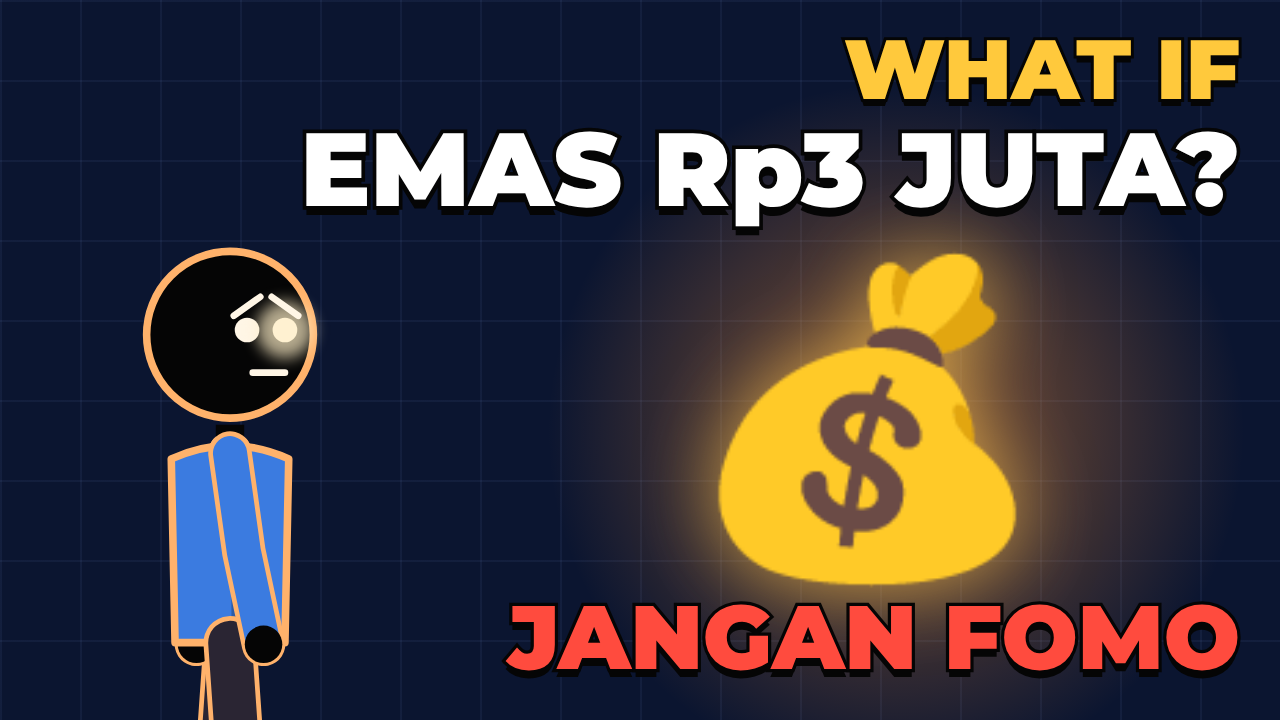
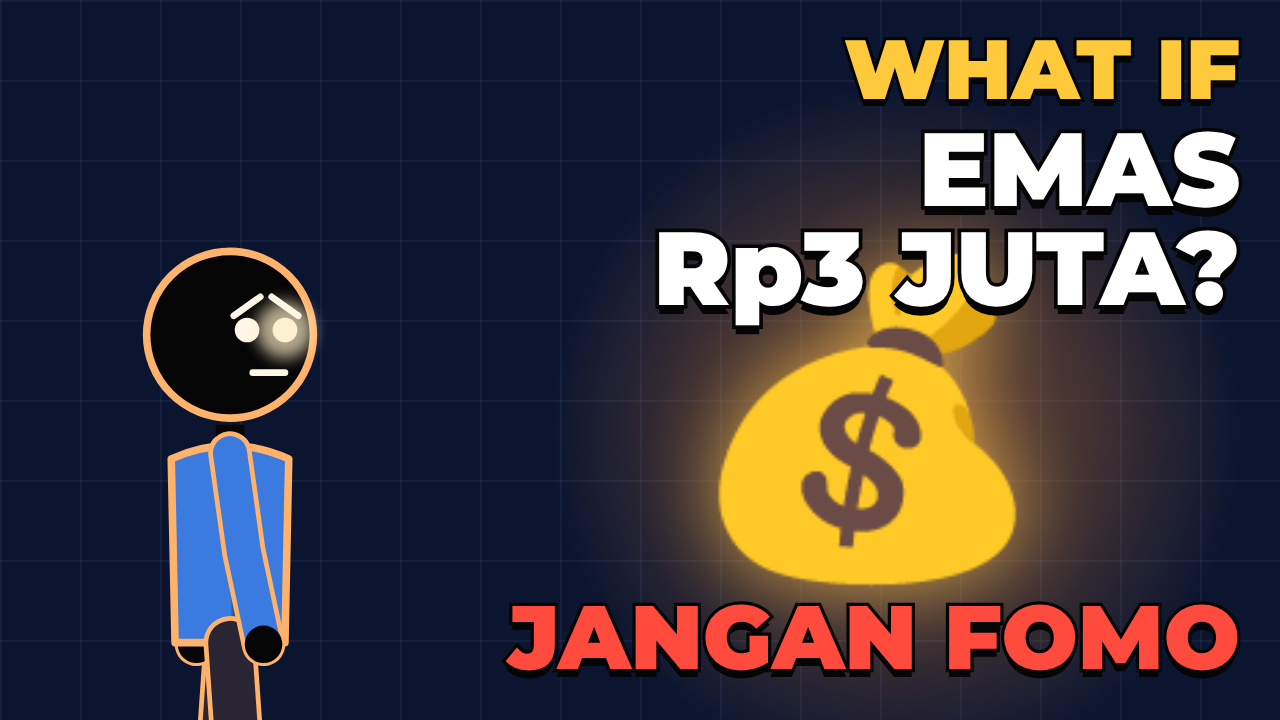
Batch outputs: thumbnails and SEO for ARB 7%, emas Rp3 juta, MSCI
Claude-Session: https://claude.ai/code/session_019wh8FBkZywDsjYxjdhMVwN

Changed region(s): [[0.2188, 0.1528, 0.9688, 0.4889]]

diff --git a/video-asing-kabur/youtube/msci-standalone.md b/video-asing-kabur/youtube/msci-standalone.md
@@ -1,0 +1,55 @@
+# YouTube: What If MSCI Benar-benar Turunkan Status Pasar Saham Indonesia?
+
+## Opsi 1: thumbnail `msci-standalone-thumb-1.png`
+**Judul:** What If MSCI Benar-benar Turunkan Status Pasar Saham Indonesia?
+
+## Opsi 2: thumbnail `msci-standalone-thumb-2.png`
+**Judul:** Indonesia Jadi Standalone Market MSCI: Kiamat atau Titik Balik IHSG?
+
+## Opsi 3: thumbnail `msci-standalone-thumb-3.png`
+**Judul:** MSCI Ancam Turunkan Indonesia: Apa yang Terjadi ke Saham dan Uangmu?
+
+---
+
+## Deskripsi
+
+Pada 15 Oktober 2026, MSCI membuka konsultasi untuk menurunkan status pasar saham Indonesia dari emerging market menjadi standalone market. Keesokan harinya, IHSG ambruk 11,57% dan asing mencatat jual bersih sekitar Rp3,34 triliun. Ini baru usulan, tapi bagaimana kalau benar-benar disetujui?
+
+Kita bahas apa itu MSCI dan kelas-kelas pasar, kenapa dana pasif dan ETF "wajib" menjual, apa alasan MSCI khawatir (investability dan transparansi kepemilikan), contoh Argentina dan Pakistan, lalu skenario hari demi hari: penjualan paksa, pasar yang sepi, valuasi yang tertinggal, sampai sisi cerita yang jarang dibahas, yaitu reformasi dan kekuatan investor lokal.
+
+⏱ Timestamp
+0:00 Surat untuk anggota klub
+0:20 Fakta: konsultasi MSCI & IHSG -11,57%
+1:09 Apa itu MSCI & kelas pasar
+2:14 Robot dana pasif
+2:35 Kenapa MSCI khawatir?
+3:03 Pernah terjadi: Argentina & Pakistan
+3:34 Hari 1: keputusan final
+4:17 Minggu 1: penjualan paksa
+4:55 Bulan 1: pasar jadi sepi
+5:34 Tahun 1: valuasi tertinggal
+6:11 Sisi lain: pekerjaan rumah & investor lokal
+7:30 4 pelajaran
+8:29 Kiamat atau titik balik?
+
+💬 Kalau Indonesia benar-benar jadi standalone market, ini kiamat bagi pasar saham kita atau titik balik? Tulis di kolom komentar.
+
+📚 Sumber data
+- Pengumuman konsultasi MSCI 15 Okt 2026 (Kontan, ANTARA)
+- IHSG -11,57% pada 16 Okt 2026; net sell asing Rp3,34 T (Kompas, IDN Financials)
+- IHSG +5,65% pada 20 Okt 2026 meski asing jual (Mediakeuangan)
+Grafik skenario penurunan dan perbandingan valuasi adalah ilustrasi, bukan proyeksi.
+
+⚠ Disclaimer: Video ini untuk edukasi, bukan ajakan membeli atau menjual aset apa pun. Lakukan riset sendiri.
+
+#MSCI #IHSG #SahamIndonesia #WhatIf #InvestorAsing
+
+---
+
+## Tag
+MSCI, MSCI Indonesia, standalone market, emerging market, IHSG, IHSG anjlok, reklasifikasi MSCI, investor asing, net sell asing, ETF, dana pasif, pasar saham Indonesia, investability, free float, BEI, saham Indonesia, what if, skenario pasar saham, edukasi saham, investasi saham
+
+## Tips upload
+- Pakai Opsi 1 sebagai utama, lalu uji Opsi 2/3 lewat Test & Compare di YouTube Studio.
+- Unggah `input/msci-standalone/vo_msci-standalone.srt` sebagai subtitle bahasa Indonesia.
+- Kategori: Pendidikan. Bahasa: Indonesia.

diff --git a/video-asing-kabur/youtube/emas-3-juta.md b/video-asing-kabur/youtube/emas-3-juta.md
@@ -1,0 +1,52 @@
+# YouTube: What If Harga Emas Tembus Rp3 Juta per Gram? Jangan Beli Sebelum Tahu Ini
+
+## Opsi 1: thumbnail `emas-3-juta-thumb-1.png`
+**Judul:** What If Harga Emas Tembus Rp3 Juta per Gram? Jangan Beli Sebelum Tahu Ini
+
+## Opsi 2: thumbnail `emas-3-juta-thumb-2.png`
+**Judul:** Emas Antam Rp3 Juta/Gram: Siapa Untung, Siapa Terpukul?
+
+## Opsi 3: thumbnail `emas-3-juta-thumb-3.png`
+**Judul:** Harga Emas Naik tapi Kamu Rugi? Skenario Emas Rp3 Juta per Gram
+
+---
+
+## Deskripsi
+
+Harga emas Antam per 21 Oktober 2026 ada di sekitar Rp2.554.000 per gram. Untuk menembus Rp3 juta, emas hanya perlu naik sekitar 17%. Apa yang terjadi kalau itu benar-benar terjadi?
+
+Kita bahas dua mesin penggerak harga emas di Indonesia (harga dunia dan kurs rupiah), sejarah lonjakannya, lalu skenario hari demi hari: antrean butik emas, calon pengantin yang menghitung ulang mahar, gelombang penjualan emas lama, tabungan emas digital, sampai satu jebakan yang membuat banyak orang rugi padahal harga emas naik: spread harga beli dan buyback.
+
+⏱ Timestamp
+0:00 Emas Rp3 juta per gram
+0:20 Fakta: harga emas hari ini
+0:53 Dua mesin penggerak harga emas
+2:16 Sejarah lonjakan emas
+2:54 Hari 1: FOMO & antrean butik
+3:40 Minggu 1: calon pengantin terpukul
+4:13 Bulan 1: pemilik lama menjual
+5:14 Tahun 1: bertahan atau terkoreksi?
+5:54 Jebakan: spread beli vs buyback
+6:45 5 pelajaran
+7:54 Menjual atau membeli?
+
+💬 Kalau emas tembus Rp3 juta per gram, kamu termasuk yang menjual atau yang membeli? Tulis di kolom komentar.
+
+📚 Sumber data
+- Harga emas Antam Rp2.554.000/gram & buyback Rp2.369.000/gram, 21 Okt 2026 (ANTARA, Logam Mulia)
+- Kurs USD/IDR ±Rp18.000 pertengahan Okt 2026 (JISDOR BI)
+Grafik tren historis dan contoh perhitungan kurs adalah ilustrasi.
+
+⚠ Disclaimer: Video ini untuk edukasi, bukan ajakan membeli atau menjual aset apa pun. Lakukan riset sendiri.
+
+#HargaEmas #EmasAntam #InvestasiEmas #WhatIf #Keuangan
+
+---
+
+## Tag
+harga emas, emas Antam, harga emas hari ini, emas 3 juta, investasi emas, buyback emas, spread emas, Logam Mulia, emas naik, beli emas, tabungan emas, emas digital, kurs rupiah, rupiah melemah, mahar emas, what if, skenario ekonomi, keuangan pribadi, investasi pemula, Pegadaian
+
+## Tips upload
+- Pakai Opsi 1 sebagai utama, lalu uji Opsi 2/3 lewat Test & Compare di YouTube Studio.
+- Unggah `input/emas-3-juta/vo_emas-3-juta.srt` sebagai subtitle bahasa Indonesia.
+- Kategori: Pendidikan. Bahasa: Indonesia.
